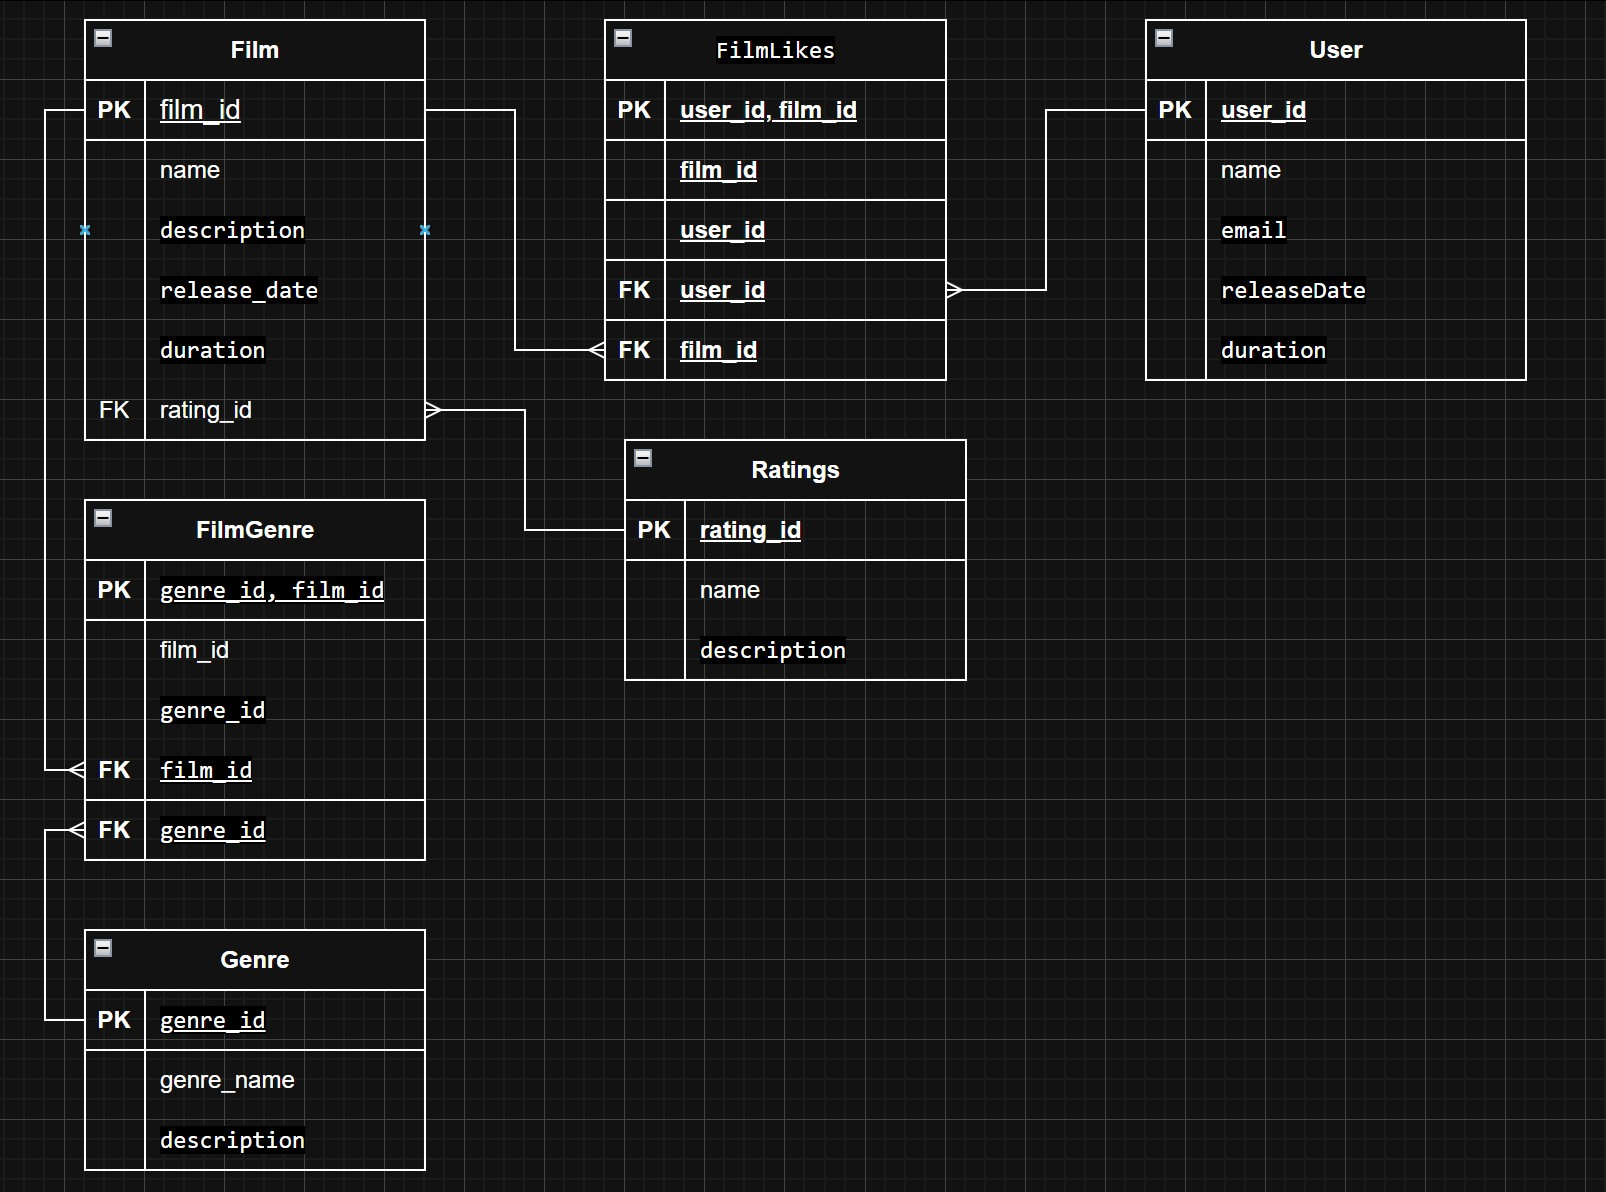
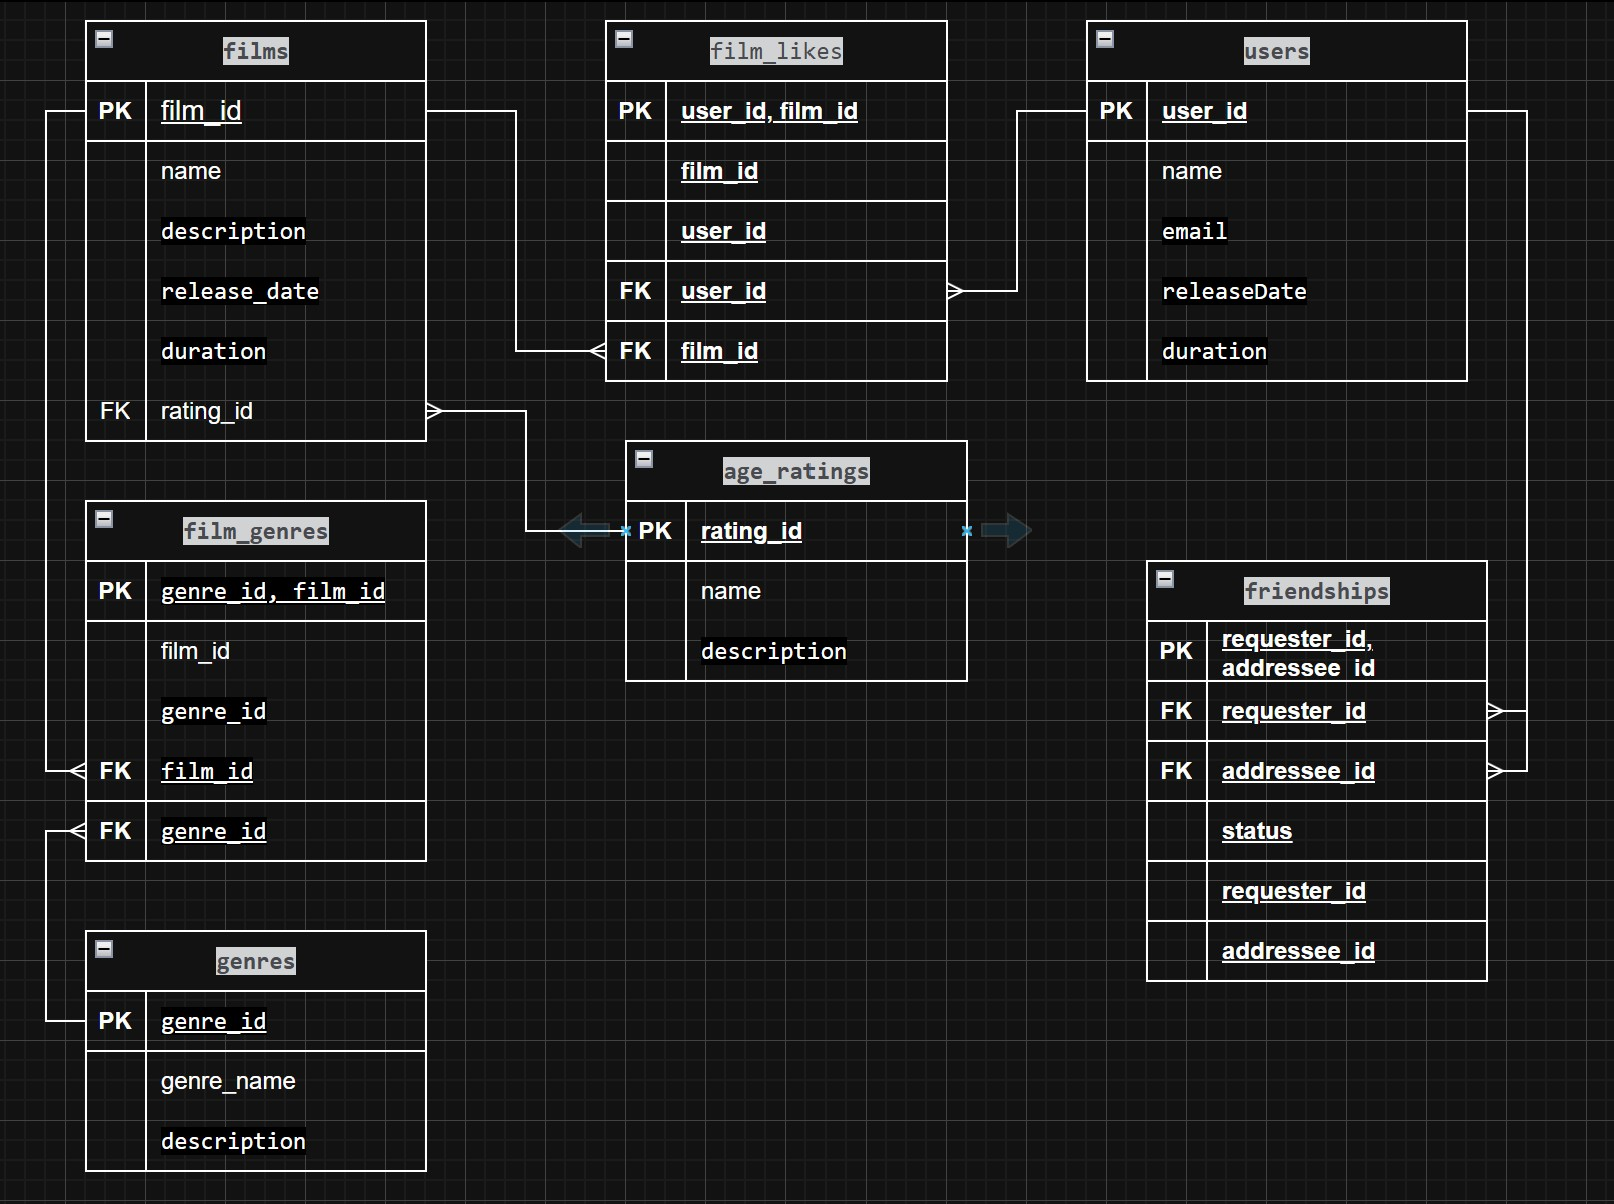
исправил замечания

diff --git a/src/main/resources/README.md b/src/main/resources/README.md
@@ -1,0 +1,97 @@
+
+# Схема базы данных
+![Base.jpg](Base.jpg)
+## Основные таблицы
+
+### `users`
+Содержит данные о пользователях
+
+### `films`
+Содержит данные о фильмах
+
+## Справочники
+
+### `age_ratings`
+Возрастные ограничения
+
+### `genres`
+Жанры фильмов
+
+## Связующие таблицы
+
+### `film_genres`
+Связывает фильмы с жанрами
+
+### `film_likes`
+Лайки пользователей
+
+### `friendships`
+Дружеские связи между пользователями со статусом
+
+-- создаем базу данных
+CREATE DATABASE filmorate_repository;
+-- подключились к ней через настройки
+-- создаем схему фильмотеки
+CREATE SCHEMA filmorate;
+
+-- Добавляем таблицы
+CREATE TABLE age_ratings (
+    rating_id BIGINT PRIMARY KEY GENERATED ALWAYS AS IDENTITY,
+    rating_name VARCHAR(50) NOT NULL UNIQUE,
+    description VARCHAR(255)
+);
+
+CREATE TABLE films(
+    film_id BIGINT PRIMARY KEY GENERATED ALWAYS AS IDENTITY,
+    name VARCHAR(255) NOT NULL CHECK (name <> ''),
+    description VARCHAR(200) NOT NULL,
+    CHECK (LENGTH(TRIM(description)) >= 1),
+    release_date DATE NOT NULL CHECK (release_date >= '1895-12-28'),
+    duration INTEGER NOT NULL CHECK (duration > 0),
+    rating_id BIGINT ,
+    FOREIGN KEY (rating_id) REFERENCES age_ratings(rating_id)
+);
+
+CREATE TABLE genres (
+    genre_id BIGINT PRIMARY KEY GENERATED ALWAYS AS IDENTITY,
+    genre_name VARCHAR(100) NOT NULL UNIQUE,
+    description TEXT
+);
+
+CREATE TABLE film_genres (
+    film_id BIGINT,
+    genre_id BIGINT,
+    PRIMARY KEY (film_id, genre_id),
+    FOREIGN KEY (film_id) REFERENCES films(film_id),
+    FOREIGN KEY (genre_id) REFERENCES genres(genre_id)
+);
+
+CREATE TABLE users (
+    user_id BIGINT PRIMARY KEY GENERATED ALWAYS AS IDENTITY,
+    email  VARCHAR(255) NOT NULL,
+    login VARCHAR(255) NOT NULL,
+    name VARCHAR(255),
+    birthday DATE NOT NULL,
+    CHECK (birthday <= CURRENT_DATE)
+);
+
+CREATE TABLE film_likes (
+    user_id BIGINT,
+    film_id BIGINT,
+    PRIMARY KEY (user_id, film_id),
+    FOREIGN KEY (user_id) REFERENCES users(user_id),
+    FOREIGN KEY (film_id) REFERENCES films(film_id)
+);
+
+CREATE TABLE friendships (
+    requester_id BIGINT NOT NULL,
+    addressee_id BIGINT NOT NULL,
+    status VARCHAR(20) NOT NULL,
+    PRIMARY KEY (requester_id, addressee_id),
+    FOREIGN KEY (requester_id) REFERENCES users (user_id) ON DELETE CASCADE,
+    FOREIGN KEY (addressee_id) REFERENCES users (user_id) ON DELETE CASCADE,
+    CHECK (requester_id <> addressee_id),
+    CHECK (status IN ('pending', 'confirmed'))
+);
+
+
